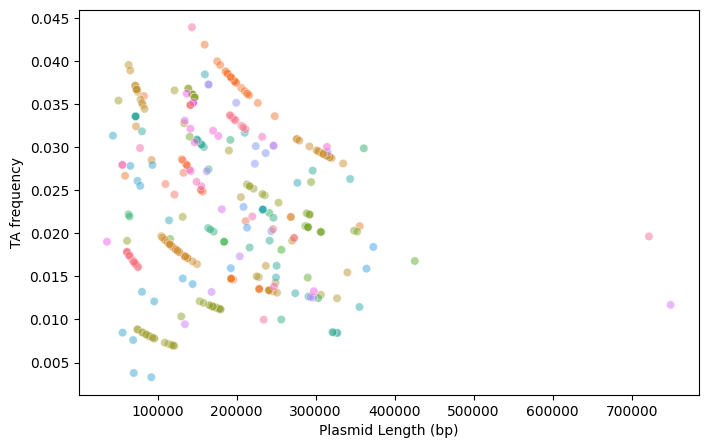
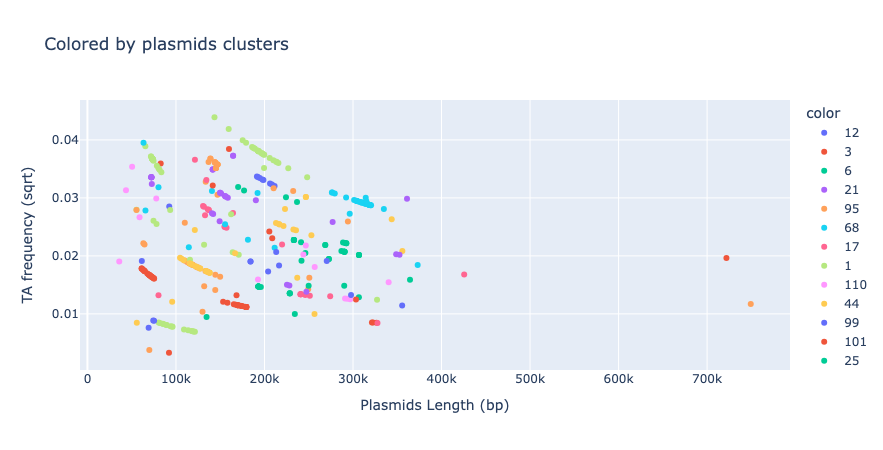
notes

diff --git a/Plasmidome/Plasmidome.md b/Plasmidome/Plasmidome.md
@@ -43,7 +43,14 @@ Each document present each processing: Assembly, filtering and plasmid retrieval
 
 ### Completeness 
 
+I considered the Single-copy Orthologous maker genes searched by checkM, the number of contigs and the number of circular contigs.
+
 ![[compleness_all_datasets.png]]
+
+So far there are no linear contigs reported for *Sinorhizobium meliloti*, therefore I expect most of the contigs to be circular, however, due to the low depth (check below) for some genomes, there is a high level of fragmentation especially of the mega-plasmids and putative accessory plasmids.
+
+
+![[number_circular_contigs_per_dataset.png]]
 
 
 ### Contamination
@@ -109,8 +116,90 @@ Likewise, whole-genome similarity estimation using Average Nucleotide Identity (
 Further comparative identity analysis using strain Rm1021 as the reference revealed high proteome coverage (>78%) and average nucleotide identity (>98%) across all genomes. _Sinorhizobium meliloti_ is known to possess an open pan-genome, a characteristic that underpins its high genetic variability. This openness results in a vast repertoire of accessory genes, which have been suggested to support the extensive phenotypic diversity observed within the species [ref 1](https://doi.org/10.1186/1471-2164-12-235), [ref2](https://doi.org/10.1371/journal.pcbi.1004478). 
 
 ![[AAI_strains_to_ref.png]]
+#### TO DO 📋
+
+⚠️ I have to repeat this using Chromosome.
+
 
 ## Accessory Plasmids general description
+
+### *De novo* Accessory Plasmid contigs identification
+
+Considering the high level of genome fragmentation and the low database representation of *S. meliloti* accessory plasmids, in order to use as much data as possible, a de novo approach to identify accessory plasmids was considered. Sequence Bray-Curtis distances using 3-mer composition were computed with pdist from Scipy package, followed by a PCoA dimensional reduction KMeans Clustering algorithm from scikit-learn was used to establish clusters for further analysis. 
+
+
+
+![[de_novo_plasmids_contig_identi.png]]
+
+We observed a clear separation among sequences classified as Chromosome, pSymA, pSymB, and Other—the latter encompassing fragmented sequences or accessory plasmids. Clusters 2, 3, and 0 corresponded clearly to Chromosome, pSymA, and pSymB, respectively. However, the remaining clusters did not consistently align with accessory plasmids. To further investigate, we examined the GC content and length distributions of these clusters using sequences greater than 10kb. The analysis suggested that only cluster 1 likely contains biologically relevant information, nonetheless, cluster 4 was retained in the analysis to account for the possible presence of small plasmids.
+
+![[de_novo_len_gc.png]]
+
+
+
+### Plasmid de-replication
+
+MobMess was used for containment-based de-replication. Due to the sequence similarity observed between the megaplasmids—particularly pSymA—and accessory plasmids, the megaplasmids were retained in the analysis to prevent false positives that could arise from fragmented sequences and lead to ambiguous plasmid assignments. 
+
+MobMess is a tool for pan-genome study of plasmidome, it tries to identify *plasmids systems* by establishing containment relationships between plasmids. This strategy allows to handle complex scenario where we have to distinguish between fragments and complete plasmids while keeping as much data as possible. 
+
+Using MobMess, we successfully de-replicated our accessory plasmids. The tool correctly identified points of fragmentation that resulted from sequence ambiguity between the accessory plasmids and mega-plasmids. For example, cluster 129 (red) corresponds to fragments between 12kb-15kb that causes assemblies ambiguities between pSymA (big points) and a group of accessory plasmids (small green points)
+
+![[cluster129.png]]
+ caption: size points correspond to sequences binary > 1MB (likely pSym). the color of the edge is the ANI (min. possible value is 90%) 
+
+> [!QUESTION]
+> What is that 12kb-15kb fragment?
+> 
+
+in MobMess, as expected I am interested in backbone, maximal and compound clusters, but in fragments cluster as well, since due to the use of long reads I expect the plasmids being near-complete but due to the coverage they could not be circularize. So now I have to apply a congruent filter to keep a sample of non-redundant/non-ambiguous plasmids. the following image presents what I call a simple in high level but complex on its details.
+
+![[simple_but_complex.png]]
+
+we have two backbones (light green) connected by a compound cluster (dark green), and one of the backbones is uniquely connected to a maximal cluster (purple). The latter are connected to 3 different fragments cluster coming from the same assembly, that likely is the same plasmid, but it is very fragmented due to a low assembly coverage (mean 10x). The compound cluster is a very interesting point of decision. Probably with other parameters using similarity clustering (check fastaANI below) these plasmids would be clustered together into the same cluster and probably same PTUs by COPLA (I could not install it nor even the database), however here we can see that only two plasmids create the connection between two different plasmid identities.
+
+Fragmented clusters are useful as well, for example, the cluster in the image below shows a group of plasmids that due to low coverage were fragmented down to half of the backbone (light green).
+
+![[example_fragment_cluster.png]]
+
+From this, I can can conclude that MobMess output can help me answer two questions: What is the diversity (backbone and compound)? and What is the distribution (backbone, compound and fragmented)? 
+
+### Plasmid Diversity in S. melolti 
+
+
+### Plasmid Clustering
+
+Plasmid taxonomy classification is a challenge, different plasmid features have been used to classify plasmids into groups: PlasmidFinder, MOB-Suite, COPLA. The latter introduced the term of Plasmid Taxonomic Unit (PTUs), however COPLA is not maintained software and we could not install the COPLA database needed for PTUs classification. Network-based alternatives to study plasmidome has been proposed [ref](https://doi.org/10.1038/s41467-020-16282-w) [ref](https://doi.org/10.1038/s41396-023-01373-5) [ref](https://doi.org/10.1038/s41467-025-57940-1) [ref](https://doi.org/10.1038/s41467-024-45761-7) [ref](https://doi.org/10.1038/s41396-021-00926-w) [ref](https://doi.org/10.1038/s41467-025-65102-6). Considering the lack of agreement for plasmid clustering, we decided use FastANI for ANI estimation, given that FastANI uses a Mash approach but less sensible to divergent and incomplete draft genomes and The Louvain algorithm for community detection implemented in Python using python-Louvain module
+
+
+> [!NOTE]
+> FastANI looks like a good approach, however, Given that clustering these large plasmids is a challenge as they might represent the fusion of smaller plasmids, I want to create a containment network where distances can give me evolutionary relations between plasmids. I found MobMess, it is a super interesting tool proposal that applies this approach and establish plasmids systems discerning between plasmids backbone genes and cargo genes. These two categories combine to form different plasmids structures. 
+> 
+> The other aspect to consider is the clustering algorithm. Louvain is popular algorithm for community discovery, however, it has been described that it can produce internally disconnected communities, and an alternative was proposed, the Leiden algorithm.
+> 
+> Next it is a comparison between: in the left, Vclust + Leiden (resolution=1), and in the right, FastANI + Louvain (resolution=1). In this case Louvain and Leiden produce similar result. I used louvain since it is easier to run in python. they are both using tANI to filter >0.9 however I am plotting every edge with AF>0.7. only 10 clusters are colored.
+> ![[fastANI_vs_Vclust.png]]
+> 
+> We can see that FastANI might be overestimating the ANI. whereas Vclust is underestimating it in some cases.
+> 
+
+ 
+
+
+
+
+The image below is an example of a systematic problem that shares several genomes from Penn State. This is an ambiguity that can easily confused since it can represent different scenarios in the genome assembly. However, we know it is an accessory plasmid, confirmed by plasmid features, kmer composition and re-sequenced of two of the samples (Liana_052_1_filtered & Liana_056_3_filtered). Additionally, it systematically has a coverage inferior to the chromosome and the symbiotic plasmids. This makes me think of a thought I had before with these large plasmids; low-copy number plasmids that restricted even in the same population. This corresponds to isolates, so either cells started losing them or the plasmid are restricted to subpopulations, vertical domination over horizontal has been mentioned in some paper (I lost them, look for them)
+
+With *S. meliloti* something curious happen, their plasmids are very large > 50kb up to 700kb (WHY???), even more interesting during sequencing of isolates for example for the case of the common ~350kb plasmid *contig_4_m64404e_240531_162148.hifi_reads.bc2049--bc2049* all their strains presents reduction in coverage (around halve total), however Liana_052_1_filtered & Liana_056_3_filtered which were part of the re-sequenced strains are very similar and presents coverage as high as chromosome. Also, they presented another plasmid of 75kb.
+
+![[example_ambiguity_w_acc_pls.png]]
+
+
+
+I am trying Vclust and MobMess!: Vclust allows me to achieve similar result as the pipeline used in this [soil plasmidome study](https://doi.org/10.1038/s41467-[phone redacted]) . whereas MobMess is an interesting proposal that uses containment network to establish what they call "plasmids systems"
+
+Vclust results are very clustering algorithm dependent. I tried all of them, and Leiden and complete linkage are my favorite. Let's compare it with MobMess.
+
 
 ### Plasmids Counts per dataset
 
@@ -191,7 +280,7 @@ Our analysis revealed that accessory plasmids in our datasets harbored either MO
 If we check at the genus level of Sinorhizobium we see that...
 
 
-#### TO DO:
+#### TO DO
 
 **Here I can compare with what MOB proteins has been reported in the genus or even the family (Rhizobiaceae)**
 
@@ -216,10 +305,13 @@ Through the annotation of the putative plasmids we could identified the module R
 > 1. I want to see how it behaves
 > 2. I want to build a tool to replace RFPlasmid in that step.
 
-To annotate TA systems, the HMM models from TASmania were used. Currently there are two ways to annotate TA systems, using the highly curated TADB or using the more "discovery-oriented. TASmania present higher sensitivity than TADB, however, TASmania  models were built mining for interpro annotated TA in more than 41k assemblies, therefore it has a higher risk of false positive. Using TASmania models, [Bethke *et al.* (2023)](https://doi.org/10.1093/molbev/msae206) annotated TA systems for approximately 10k plasmids, subsequently trained a Random Forest model which achieved 95% accuracy predicting PTUs. ParB/RepB/Spo0J, Hok/Gef, RelE/ParE, and PemI coding sequences were found among the most influential features for the model accuracy. Interestingly, RepB is the most common plasmid partitioning protein among our plasmids dataset and the annotation more common associated with an antitoxin hit across our plasmids. Functionality variability has been between the proteins in the RepABC, for example, [Ingmer & Cohen (1993)](https://doi.org/10.1128/jb.175.24.7834-7841.1993) demonstrated that RepA can be involved both in plasmid replication and partitioning. In addition, [Effe *et al.* (2025)](https://doi.org/10.1038/s41467-025-62473-8) investigate the evolutionary advantage provided by the combination of different persistent strategies that can be found in plasmids. The researches found that an active partition system coupled with a TA system provides the greatest fitness advantage, specially for low-copy extrachromosomal elements. This is specially relevant for *Sinorhizobium meloti* given their sizes distributions and high detection of the whole replication module [[#Size and GC content distribution]] involving more than one instance of proteins in the module.
+To annotate TA systems, the HMM models from TASmania were used. Currently there are two ways to annotate TA systems, using the highly curated TADB or using the more "discovery-oriented. TASmania present higher sensitivity than TADB, however, TASmania  models were built mining for interpro annotated TA in more than 41k assemblies, therefore it has a higher risk of false positive. Using TASmania models, [Bethke *et al.* (2023)](https://doi.org/10.1093/molbev/msae206) annotated TA systems for approximately 10k plasmids, subsequently trained a Random Forest model which achieved 95% accuracy predicting PTUs. ParB/RepB/Spo0J, Hok/Gef, RelE/ParE, and PemI coding sequences were found among the most influential features for the model accuracy. Interestingly, RepB is the most common plasmid partitioning protein among our plasmids dataset and the annotation more common associated with an antitoxin hit across our plasmids. Functionality variability has been between the proteins in the RepABC, for example, [Ingmer & Cohen (1993)](https://doi.org/10.1128/jb.175.24.7834-7841.1993) demonstrated that RepA can be involved both in plasmid replication and partitioning. Likewise, [Yu *et al.* 2020](https://doi.org/10.1101/2020.11.01.361691) trained PlasX, a logistic regression model, using the gene families to identified plasmid sequences from chromosomal ones. Authors reported PlasX often assigned higher model coefficients to genes strongly associated with plasmid biology, such as the genes for plasmid replication, *repL*, and partitioning, *parA*.
 
+In addition, [Effe *et al.* (2025)](https://doi.org/10.1038/s41467-025-62473-8) investigate the evolutionary advantage provided by the combination of different persistent strategies that can be found in plasmids. The researches found that an active partition system coupled with a TA system provides the greatest fitness advantage, specially for low-copy extrachromosomal elements. This is specially relevant for *Sinorhizobium meloti* given their sizes distributions and high detection of the whole replication module [[#Size and GC content distribution]] involving more than one instance of proteins in the module.
 
-Due to the large number of putative plasmids and the observation of highly similar feature profiles, we applied Hierarchical Clustering using the AgglomerativeClustering function from scikit-learn, and employing Ward's linkage method with a distance threshold of 10 allowing us to reduce redundancy by grouping plasmids with nearly identical features and computing the mean at each group. This clustering approach yielded 111 distinct clusters, which were then used for subsequent plotting and analysis.
+![[TA_type_vs_length.png]]
+
+**(IT WILL BE REPLACE BY PTUs)** Due to the large number of putative plasmids and the observation of highly similar feature profiles, we applied Hierarchical Clustering using the AgglomerativeClustering function from scikit-learn, and employing Ward's linkage method with a distance threshold of 10 allowing us to reduce redundancy by grouping plasmids with nearly identical features and computing the mean at each group. This clustering approach yielded 111 distinct clusters, which were then used for subsequent plotting and analysis.
 
 
 ![[hierarchical_clust_TA_systems.png]]
@@ -234,7 +326,15 @@ We could noticed the same effect to that reported by [Bethke *et al.* (2023)](ht
 
 ![[TA_freq_vs_length.png]]
 
-Each point represent a plasmids, they are colored according to the Hierarchical Clustering (I should change it for my PTUs). The x axis is plasmids length and y axis the sqrt of the TA frequency.
+Each point represent a plasmids, they are colored according to the Hierarchical Clustering (I should change it for my PTUs). The x axis is plasmids length and y axis the **sqrt** of the TA frequency.
+
+
+#### TO DO
+
+1. Replace the hierachical clustering by the PTUs.
+2. I could use https://github.com/liampshaw/rmsFinder to look for type II R-M system and predict target. 
+
+
 
 
 ## Origin of Replication in plasmids
@@ -264,7 +364,7 @@ pSymA, pSymB and Chromosome were extracted only from the *in house* dataset. pSy
 > 1. I want to see how it behaves
 > 2. I want to build a tool to replace RFPlasmid in that step.
 
-However, once again the oriV is highlighted as an interesting feature to analyze for accessory plasmid sample purity. Inspecting the previous graph looking for *contig_4_m64404e_240531_162148.hifi_reads.bc2049--bc2049* a 700kb contamination described during [[#MOB and MPF typing]], we can noticed it was placed with pSymA group, its most probably source of origin. 
+However, once again the oriV is highlighted as an interesting feature to analyze for accessory plasmid sample purity. Inspecting the previous graph looking for *contig_7_m64404e_240531_162148.hifi_reads.bc2049--bc2049* a 700kb contamination described during [[#MOB and MPF typing]], we can noticed it was placed with pSymA group, its most probably source of origin. 
 
 
 ![[PCA_6mer_ori_cont_highligth.png]]
@@ -288,17 +388,23 @@ I can add PCA analysis to see how gene content separates them
 
 
 
+## Gene exchanges between plasmids
 
-## Plasmid Clustering
-
-Plasmid taxonomy classification is a challenge, different plasmid features have been used to classify plasmids into groups: PlasmidFinder, MOB-Suite, COPLA. The latter introduced the term of Plasmid Taxonomic Unit (PTUs), however COPLA is not maintained software and we could not install the COPLA database needed for PTUs classification. Network-based alternatives to study plasmidome has been proposed [ref](https://doi.org/10.1038/s41467-020-16282-w) [ref](https://doi.org/10.1038/s41396-023-01373-5) [ref](https://doi.org/10.1038/s41467-025-57940-1) [ref](https://doi.org/10.1038/s41467-024-45761-7) [ref](https://doi.org/10.1038/s41396-021-00926-w) [ref](https://doi.org/10.1038/s41467-025-65102-6). Considering the lack of agreement for plasmid clustering, we decided use FastANI for ANI estimation, given that FastANI uses a Mash approach but less sensible to divergent and incomplete draft genomes and The Louvain algorithm for community detection implemented in Python using python-Louvain module
+For this I could use the wGRR as describe [here](https://doi.org/10.1038/s41467-024-45757-3) 
 
 
-I find that comparisons with FastANI are limited for my scenario.
-The image below is an example of a systematic problem that shares several genomes from Penn State. This is an ambiguity that can easily confused since it can represent several scenarios in the genome assembly. However, we know it is an accessory plasmid, confirmed by plasmid features, kmer composition and re-sequenced of two of the samples (Liana_052_1_filtered & Liana_056_3_filtered). Nonetheless, FastANI matches these contigs with the contamination identified before. I need more robust alignments BLAST-based.
+# What makes *Sinorhizobium meliloti* plasmids large plasmids?
 
-![[example_ambiguity_w_acc_pls.png]]
 
+The low acquisition of TA systems, the high prevalence of partition proteins among them, the reduced coverage observed during isolates sequencing, goes directly into a classic question: What is making *S. meliloti*'s plasmids so large? I like the image below retrieved from [Hall *et al.* (2022)](https://doi.org/10.1098/rstb.2020.0472) which presented an interesting overview of the features that makes a plasmid a mega-plasmid.
+
+![[What_makes_megaplasmid.png]]
+
+
+
+#### TO DO
+
+With 
 
 
 

diff --git a/Plasmidome/Tasks plasmidome.md b/Plasmidome/Tasks plasmidome.md
@@ -3,24 +3,43 @@
 	- Genome sizes ✅
 	- Genome coverage ✅
 	- Number of contigs ✅
-	- Similarity with reference ✅
+	- Similarity with reference (fastANI) ✅
+	- Similarity using only chromosome (ezzaai) ⚠️
+
+* Extract and cluster putative Plasmids:
+	* Compute 3mer frequency (I saw 3mer produced the best balance between cluster variance-granularity) ✅ 
+	* Extract cluster with more "Other" sequences ✅
+	* Filter out < 10kb ✅
+	* Establish Clusters with MobMess including PLSDB ⚠️
+		* Using all the plasmids related to meliloti
+		* Using all the plasmids related to meliloti < 500 kb
+
+* Create ORFome:
+	* Annotate Plasmids retrieved in the last step
+	* Annotate PLSDB plasmids (including megaplasmids)
+	* Cluster protein families (80% cov 50% id. ??? with UniRef50??)
+	* 
+
+* For each representative plasmid in a cluster:
+	* Origin of replication prediction.
+	* GC skew (maybe for those with no prediction? it depends on completeness tho)
+	* Measure if similary Ori == similar plasmid (incompatibility group)
+
+* For each cluster:
+	* Number of genes overlapping between plasmid groups, and plasmids groups with pSymAB and chromosomes.
 
 + Describe plasmids
 	- Presence of RepABC ✅
 	- Presence of MOB. ✅
 	- Presence of TA systems. ✅
 	- Origin of Replication ✅
-	- CDS
-	- Antismash (secondary metabolite biosynthetic)
-	- CAZymes
-	- AMPs
-
-- Clustering 
-
-- Perform the previous descriptions but per cluster or PTUs.
+	- CDS ⚠️
+	- Antismash (secondary metabolite biosynthetic) ⚠️
+	- CAZymes ⚠️
+	- AMPs ⚠️
 
 
-* Level of genes overlapping between plasmid groups, and plasmids groups with pSymAB and chromosomes.
+* 
 * intra and inter-species transfer events in plasmids groups, include database plasmids
 * BGWAS underlying phenotype of having or not an accessory plasmid.
 * pan-epiMethylation state clustering of plasmids

diff --git a/Plasmidome/Literature Summary.md b/Plasmidome/Literature Summary.md
@@ -1,0 +1,10 @@
+Here I sum up some of the interesting papers I have read to guide my paper construction.
+
+
+1. [plasX and MobMess](https://doi.org/10.1038/s41564-024-01610-3) MobMess is the tool I will use to decontaminate and cluster my plasmids. I like its strategy to handle fragmentation cases. **It can help me establish clusters resistant to plasmid fragmentation.**
+2. [Phage-plasmids promote recombination and emergence of phages and plasmids](https://doi.org/10.1038/s41467-024-45757-3) They studied the gene flow between phages, phages-plasmids and plasmids. in previous studies they established an interesting metric to measure the similarity between MGEs called wGRR (weighed Gene Repertoire Relatedness) and **it can help me to track HGT events**.
+3. [A widespread group of large plasmids in methanotrophic _Methanoperedens_ archaea](https://doi.org/10.1038/s41467-022-34588-9): Description of two new plasmids (~150kb) for methane archaea. 
+	1. They described large plasmids, limited to a specific specie of archaea and with low information available. Additionally, Borgs are thought to expand metabolic capacity, check next paper.
+	2. they are like a chromid, where the plasmid acquire some host's DNA, however they decided to called them **Borgs**, maybe cuz it does not imply a dependance on them, however one of the plasmids carried tRNA missing in the host, so they inferred dependance. 
+	3. One of the plasmids encoded for a nucleoid protein MC1, interesting... 
+4. [Borgs are giant genetic elements with potential to expand metabolic capacity](https://doi.org/10.1038/s41586-022-05256-1) *We can neither prove that they are archaeal viruses or plasmids or minichromosomes, nor prove that they are not. Although they may ultimately be classified as megaplasmids, they are clearly different from anything that has been previously reported.* Borgs presents low GC, no plasmids replication-conjugation system, no viral proteins. As I see it, they are like megaplasmids but chromosome related

diff --git a/SMRandom-seq/Bacteroid SmRandom Seq.md b/SMRandom-seq/Bacteroid SmRandom Seq.md
@@ -87,4 +87,10 @@ Although the processing with Seurat has been quite easier than I was exprected i
 1. **IntegrateData is different from IntegrateLayer.** This is the main reason I had so different results between LogNormalize and SCTransform and I thought that the problem was this normalization. But the problem is in summary that Integrate make a correction to the reductional space (PCA) of the whole dataset and IntegrateData does the correction on the counts creating a integrated assay (read this [issue](https://github.com/satijalab/seurat/issues/8653)) Using an integration like the CCA-based consist on finding anchors between variable features in each dataset so it reduces my dataset to a subset of common variable features 
 2. **CCA-based integration may also lead to overcorrection between Free-living and Nodules hiding biological difference.** When I use this method that represent the default normalization method. I suspect it overcorrects the free-living data, as in nodule I have a lot less genes, and I end up with free-living being mixed with Nodule."CCA is well-suited for identifying anchors when cell types are conserved, but there are very substantial differences in gene expression across experiments."
 3. **LogNormalize with Harmony differentiate between free-living and nodule, but it hides differences between nodule.** We know the nodule has different differential states and mix of states, so we should see these differences.
-4. 
+
+# Result
+
+I create this ShinyApp that contains the analysis: [http://shiny:3441/jp2992/shinyApp_integrated/](http://shiny:3441/jp2992/shinyApp_integrated/ "http://shiny:3441/jp2992/shinyApp_integrated/") 
+
+code
+> /n/projects/jp2992/sergio/SMrandom_seq/sergio.R

diff --git a/NCR_prediction/NCR_prediction_Fenugreek_and_Sainfoin.md b/NCR_prediction/NCR_prediction_Fenugreek_and_Sainfoin.md
@@ -1,3 +1,5 @@
+# Sumner 
+
 
 # Background
 